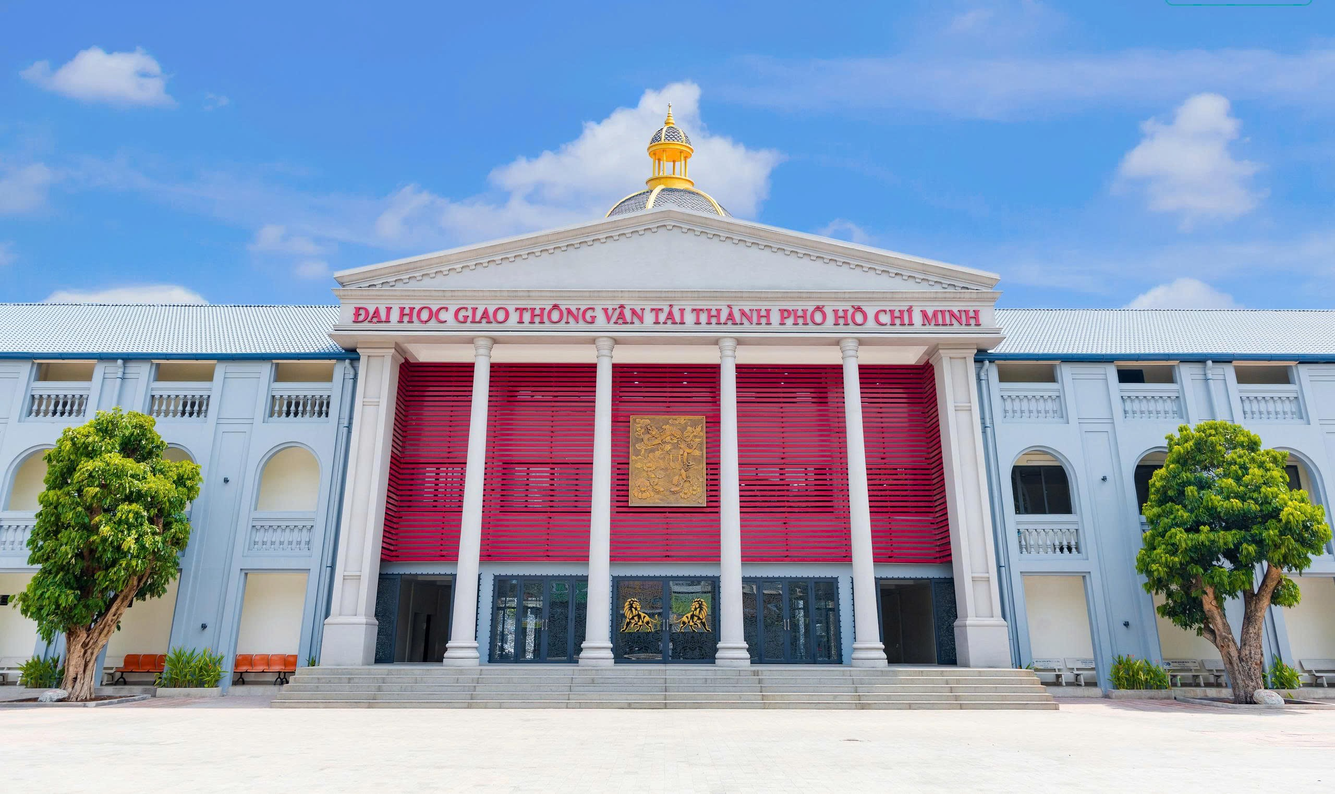
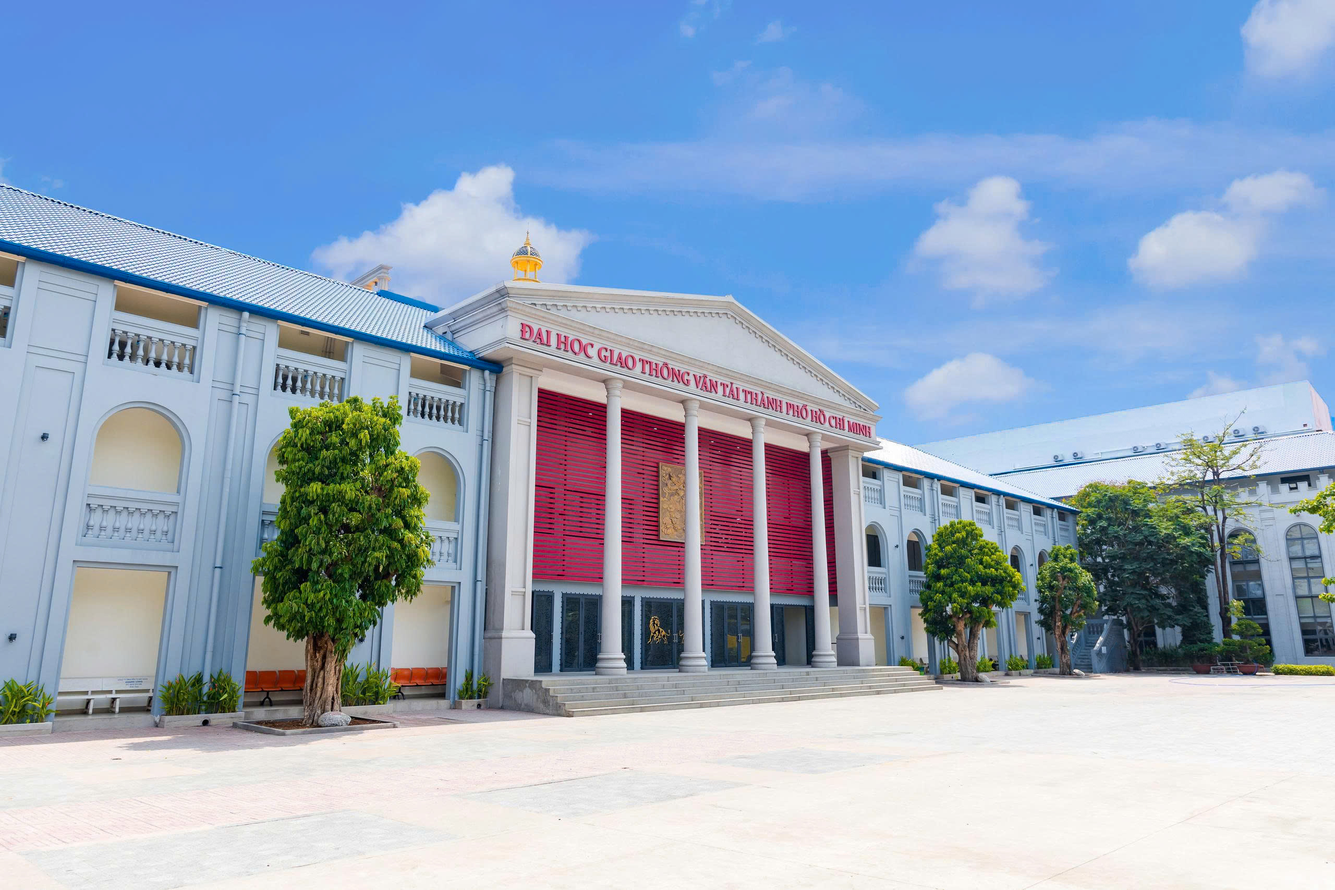
feat: implement interactive envelope animation and invitation card UI for graduation ceremony

diff --git a/src/App.jsx b/src/App.jsx
@@ -7,14 +7,13 @@ import Customizer from "./components/Customizer";
 import ExportModal from "./components/ExportModal";
 
 import uthCampusImg from "./assets/Hinh_UTH.jpg";
-import gradPortraitImg from "./assets/1000011633-9970-7187.jpg";
 
 export default function App() {
   const [isOpen, setIsOpen] = useState(false);
   const [isCustomizerOpen, setIsCustomizerOpen] = useState(false);
   const [isExportModalOpen, setIsExportModalOpen] = useState(false);
   const [isShared, setIsShared] = useState(false);
-  const [bgTheme, setBgTheme] = useState("combined"); // 'combined', 'uth-campus', 'graduate-portrait', 'classic'
+  const [bgTheme, setBgTheme] = useState("uth-campus"); // 'uth-campus', 'classic'
 
   // Initial invitation configuration, loaded from URL params if present
   const [config, setConfig] = useState({
@@ -26,7 +25,7 @@ export default function App() {
     hall: "Cơ sở chính (Cơ sở 1)",
     address: "Số 2 Võ Oanh, Thạnh Mỹ Tây, Hồ Chí Minh",
     invitationText:
-      "Trân trọng kính mời gia đình đến chia vui cùng con trong buổi lễ tốt nghiệp."
+      "Trân trọng kính mời gia đình đến chia vui cùng con trong buổi lễ tốt nghiệp.\nLưu ý: Khi tham gia lễ phải có vé tham gia (tối đa 5 vé)"
   });
 
   const [guestName, setGuestName] = useState("Toàn thể Đại gia đình");
@@ -76,7 +75,7 @@ export default function App() {
       invitationText:
         text ||
         prev.invitationText ||
-        "Trân trọng kính mời gia đình đến chia vui cùng con trong buổi lễ tốt nghiệp.",
+        "Trân trọng kính mời gia đình đến chia vui cùng con trong buổi lễ tốt nghiệp.\nLưu ý: Khi tham gia lễ phải có vé tham gia (tối đa 5 vé)",
     }));
   }, []);
 
@@ -114,12 +113,10 @@ export default function App() {
         <div className="flex-1 w-full flex flex-col justify-between py-1 sm:py-3 px-1.5 sm:px-4 relative z-10 animate-[fadeIn_1s_ease-out] gap-1 sm:gap-2">
           {/* Global Dynamic Background Layer (100% Sharp, Crisp & HD on Desktop & Mobile) */}
           <div className={`fixed inset-0 overflow-hidden pointer-events-none z-0 transition-all duration-700 ${bgTheme === "classic" ? "bg-[#F9F3E3]" : "bg-[#0b1329]"}`}>
-            {/* Theme: combined or uth-campus */}
-            {(bgTheme === "combined" || bgTheme === "uth-campus") && (
+            {/* Theme: uth-campus or default */}
+            {bgTheme !== "classic" && (
               <div
-                className={`absolute inset-y-0 left-0 ${
-                  bgTheme === "combined" ? "w-1/2" : "w-full"
-                } overflow-hidden transition-all duration-700 opacity-100 group/campus`}
+                className="absolute inset-0 overflow-hidden transition-all duration-700 opacity-100 group/campus"
               >
                 <img
                   src={uthCampusImg}
@@ -137,26 +134,6 @@ export default function App() {
                 
                 {/* Clean edge gradient fade */}
                 <div className="absolute inset-0 bg-gradient-to-r from-black/20 via-transparent to-black/40 pointer-events-none" />
-              </div>
-            )}
-
-            {/* Theme: combined or graduate-portrait */}
-            {(bgTheme === "combined" || bgTheme === "graduate-portrait") && (
-              <div
-                className={`absolute inset-y-0 right-0 ${
-                  bgTheme === "combined" ? "w-1/2" : "w-full"
-                } overflow-hidden transition-all duration-700 opacity-100`}
-              >
-                <img
-                  src={gradPortraitImg}
-                  alt="Graduate Portrait"
-                  loading="eager"
-                  decoding="async"
-                  className="w-full h-full object-cover object-top scale-100"
-                  style={{ imageRendering: "-webkit-optimize-contrast" }}
-                />
-                {/* Clean edge gradient fade */}
-                <div className="absolute inset-0 bg-gradient-to-l from-black/15 via-transparent to-black/35" />
               </div>
             )}
 

diff --git a/src/components/Envelope.jsx b/src/components/Envelope.jsx
@@ -3,9 +3,8 @@ import { motion } from "framer-motion";
 import { MailOpen, Sparkles, GraduationCap } from "lucide-react";
 
 import uthCampusImg from "../assets/Hinh_UTH.jpg";
-import gradPortraitImg from "../assets/1000011633-9970-7187.jpg";
 
-export default function Envelope({ guestName, bgTheme = "combined", onOpen }) {
+export default function Envelope({ guestName, bgTheme = "uth-campus", onOpen }) {
   const [isOpening, setIsOpening] = useState(false);
 
   const handleOpen = () => {
@@ -22,12 +21,10 @@ export default function Envelope({ guestName, bgTheme = "combined", onOpen }) {
     <div className="min-h-dvh flex flex-col items-center justify-center p-4 relative overflow-hidden bg-transparent">
       {/* Dynamic Merged Atmospheric Backdrop (100% Sharp & HD on Desktop & Mobile) */}
       <div className={`absolute inset-0 z-0 pointer-events-none overflow-hidden transition-all duration-700 ${bgTheme === "classic" ? "bg-[#F9F3E3]" : "bg-[#0b1329]"}`}>
-        {/* Theme: combined or uth-campus */}
-        {(bgTheme === "combined" || bgTheme === "uth-campus") && (
+        {/* Theme: uth-campus or non-classic */}
+        {bgTheme !== "classic" && (
           <div
-            className={`absolute inset-y-0 left-0 ${
-              bgTheme === "combined" ? "w-1/2" : "w-full"
-            } overflow-hidden transition-all duration-700 opacity-100`}
+            className="absolute inset-0 overflow-hidden transition-all duration-700 opacity-100"
           >
             <img
               src={uthCampusImg}
@@ -45,26 +42,6 @@ export default function Envelope({ guestName, bgTheme = "combined", onOpen }) {
             
             {/* Clean edge gradient fade */}
             <div className="absolute inset-0 bg-gradient-to-r from-black/20 via-transparent to-black/40 pointer-events-none" />
-          </div>
-        )}
-
-        {/* Theme: combined or graduate-portrait */}
-        {(bgTheme === "combined" || bgTheme === "graduate-portrait") && (
-          <div
-            className={`absolute inset-y-0 right-0 ${
-              bgTheme === "combined" ? "w-1/2" : "w-full"
-            } overflow-hidden transition-all duration-700 opacity-100`}
-          >
-            <img
-              src={gradPortraitImg}
-              alt="Graduate Portrait Background"
-              loading="eager"
-              decoding="async"
-              className="w-full h-full object-cover object-top scale-100"
-              style={{ imageRendering: "-webkit-optimize-contrast" }}
-            />
-            {/* Clean edge gradient fade */}
-            <div className="absolute inset-0 bg-gradient-to-l from-black/15 via-transparent to-black/35" />
           </div>
         )}
 

diff --git a/src/components/InvitationCard.jsx b/src/components/InvitationCard.jsx
@@ -338,10 +338,10 @@ export default function InvitationCard({ config, guestName, isPrintable }) {
           <div className="w-20 h-[1.5px] bg-gradient-to-r from-transparent via-[#b38728] to-transparent my-0.5" />
 
           {/* Personal Invitation Text */}
-          <p className="text-[11px] sm:text-[11.5px] text-slate-700 leading-[1.55] max-w-md italic px-1 font-serif">
+          <p className="text-[11px] sm:text-[11.5px] text-slate-700 leading-[1.55] max-w-md italic px-1 font-serif whitespace-pre-line">
             <span className="text-[#b38728] font-serif font-bold text-base mr-0.5">“</span>
             {config.invitationText ||
-              "Trân trọng kính mời gia đình đến chia vui cùng con trong buổi lễ tốt nghiệp."}
+              "Trân trọng kính mời gia đình đến chia vui cùng con trong buổi lễ tốt nghiệp.\nLưu ý: Khi tham gia lễ phải có vé tham gia (tối đa 5 vé)"}
             <span className="text-[#b38728] font-serif font-bold text-base ml-0.5">”</span>
           </p>
         </div>

diff --git a/src/components/Customizer.jsx b/src/components/Customizer.jsx
@@ -50,19 +50,9 @@ export default function Customizer({
 
   const themes = [
     {
-      id: "combined",
-      name: "👑 Combined Luxury Gold",
-      desc: "Nền UTH Campus + Khung Chân dung Tân khoa",
-    },
-    {
       id: "uth-campus",
       name: "🏛 UTH Campus Theme",
       desc: "Nền toàn cảnh khuôn viên UTH hoành tráng",
-    },
-    {
-      id: "graduate-portrait",
-      name: "🎓 Graduate Portrait Theme",
-      desc: "Nền Chân dung Tân khoa mượt mà",
     },
     {
       id: "classic",
